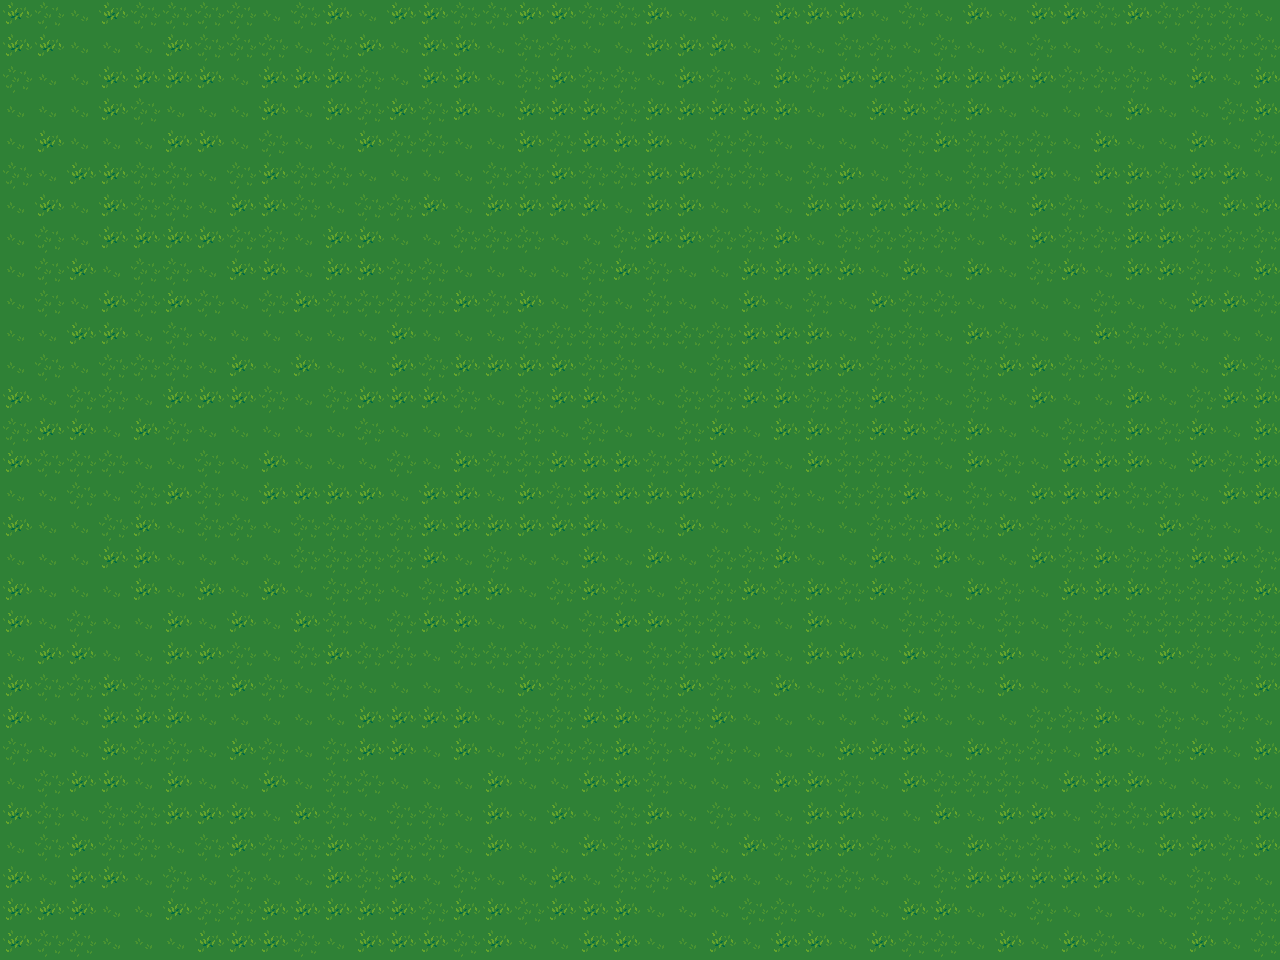
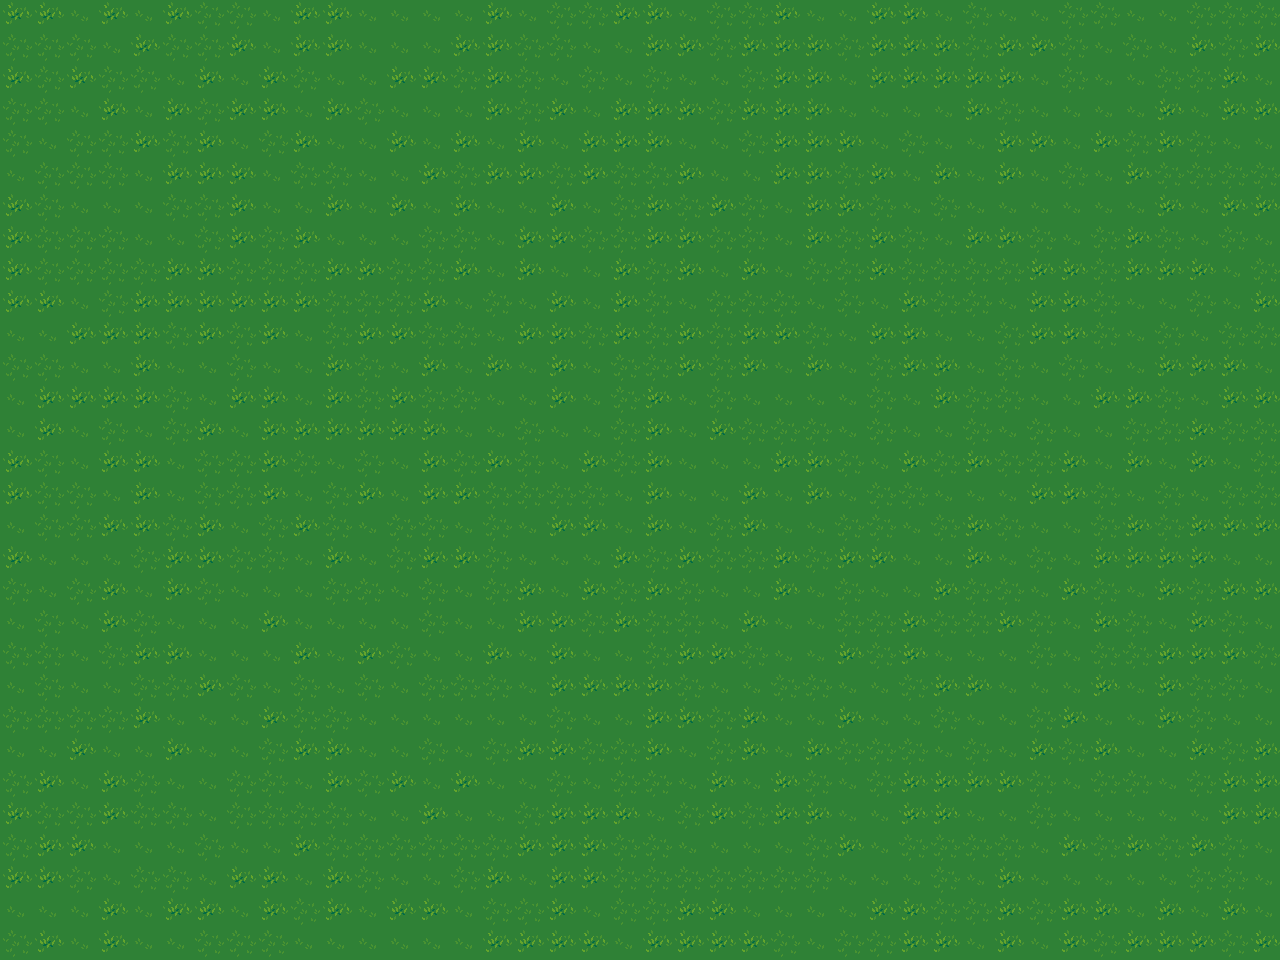
dog animation

diff --git a/src/de/sepab/sheep/display/GameBoard.java b/src/de/sepab/sheep/display/GameBoard.java
@@ -30,16 +30,21 @@ public class GameBoard extends JPanel{
 	private static final String OBSTACLE = "/de/sepab/sheep/model/gfx/fence.png";
 	private static final String FLOOR = "/de/sepab/sheep/model/gfx/grass.png";
 	private static final String POWERUP = "/de/sepab/sheep/model/gfx/wolf.png";
+	private static final String SINGLEPLAYERMAP1 = ""; //<--
 
 	private static final BufferedImage IMAGESHEEP = optimize(load(SHEEP));
 	private static final BufferedImage IMAGEDOGE = optimize(load(DOGE));
 	private static final BufferedImage IMAGEOBSTACLE = optimize(load(OBSTACLE));
 	private static final BufferedImage IMAGEFLOOR = optimize(load(FLOOR));
 	private static final BufferedImage IMAGEPOWERUP = optimize(load(POWERUP));
+	private BufferedImage IMAGEMAP;
 	private BufferedImage imageBackground;
 	    
 	private static final int COORDSSHEEP[][] = {{16,16}};
-	private static final int COORDSDOGE[][] = {{0,16}};
+	private static final int COORDSDOGE[][] = {{0,8}, {32,8}, {64, 8}, {96,8},
+											   {0,96}, {32,96}, {64, 96}, {96,96},
+											   {0,136}, {32,136}, {64, 136}, {96,136},
+											   {0,224}, {32,224}, {64, 224}, {96,224},};
 	private static final int COORDSOBSTACLE[][] = {{0,0},{32,0},{64,0},
 	    										  {0,32},{32,32},{64,32},
 	    										  {0,64},{32,64},{64,64},
@@ -54,7 +59,7 @@ public class GameBoard extends JPanel{
 	
 	private int textureLength = 32; //tl = texture length
 	private int x = 40, y=30;
-	private int background[][][] = new int[x][y][2];
+//	private int background[][][] = new int[x][y][2];
 	
 	
     public void paintComponent(Graphics gr) {
@@ -93,7 +98,7 @@ public class GameBoard extends JPanel{
     	for (int x = 0; x < this.x; x++) {
 			for (int y = 0; y < this.y; y++) {
 				int i = randomGenerator.getRandomNumber(0, 2);//2 ist die anzahl an floor texturen
-				g.drawImage(IMAGEFLOOR.getSubimage(COORDSFLOOR[i][0], COORDSFLOOR[i][1], textureLength, textureLength), x*32, x*32, null);
+				g.drawImage(IMAGEFLOOR.getSubimage(COORDSFLOOR[i][0], COORDSFLOOR[i][1], textureLength, textureLength), x*32, y*32, null);
 			}
 		}
     		ImageIO.write(imageBackground, "png", new File("./Hintergrund.png"));
@@ -102,6 +107,27 @@ public class GameBoard extends JPanel{
 		}
     }
     
+    public void loadMap(int map) {
+    	switch (map) {
+		case 1:
+			IMAGEMAP = optimize(load(SINGLEPLAYERMAP1));
+			break;
+
+		default:
+			IMAGEMAP = optimize(load(SINGLEPLAYERMAP1));
+			break;
+		}
+    	for (int x = 0; x < this.x; x++) {
+			for (int y = 0; y < this.y; y++) {
+				 int rgb = IMAGEMAP.getRGB(y, x);
+				 Color c = new Color(rgb);
+				 if (c.getBlue() == 0 && c.getRed() == 0 && c.getGreen() == 0) {
+					
+				}
+	               
+			}
+		}
+    }
     
     
 //    private void paintBackground(Graphics2D g) {

diff --git a/src/de/sepab/sheep/entities/Dog.java b/src/de/sepab/sheep/entities/Dog.java
@@ -2,12 +2,77 @@ package de.sepab.sheep.entities;
 
 public class Dog extends Entity {
 
-    public Dog(int posX, int posY, int spritePos) {
-        super(posX, posY, spritePos);
+    public Dog(int posX, int posY) {
+        super(posX, posY);
         this.setSpeed(1.0f);
     }
 
     public void bark() {
     	
+    }
+    
+    public void changeSprite(int rotation){
+    	switch (rotation) {
+		case 0:
+			break;
+		case 1:
+			if (spriteCount >= 0 && spriteCount < 4) {
+				this.setSpritePos(4);
+			}
+			if (spriteCount >= 4 && spriteCount < 8) {
+				this.setSpritePos(5);
+			}
+			if (spriteCount >= 8 && spriteCount < 12) {
+				this.setSpritePos(6);
+			}
+			if (spriteCount >= 12 && spriteCount < 16) {
+				this.setSpritePos(7);
+			}
+			break;
+		case 2:
+			if (spriteCount >= 0 && spriteCount < 4) {
+				this.setSpritePos(8);
+			}
+			if (spriteCount >= 4 && spriteCount < 8) {
+				this.setSpritePos(9);
+			}
+			if (spriteCount >= 8 && spriteCount < 12) {
+				this.setSpritePos(10);
+			}
+			if (spriteCount >= 12 && spriteCount < 16) {
+				this.setSpritePos(11);
+			}
+			break;
+		case 3:
+			if (spriteCount >= 0 && spriteCount < 4) {
+				this.setSpritePos(12);
+			}
+			if (spriteCount >= 4 && spriteCount < 8) {
+				this.setSpritePos(13);
+			}
+			if (spriteCount >= 8 && spriteCount < 12) {
+				this.setSpritePos(14);
+			}
+			if (spriteCount >= 12 && spriteCount < 16) {
+				this.setSpritePos(15);
+			}
+			break;
+		case 4:
+			if (spriteCount >= 0 && spriteCount < 4) {
+				this.setSpritePos(0);
+			}
+			if (spriteCount >= 4 && spriteCount < 8) {
+				this.setSpritePos(1);
+			}
+			if (spriteCount >= 8 && spriteCount < 12) {
+				this.setSpritePos(2);
+			}
+			if (spriteCount >= 12 && spriteCount < 16) {
+				this.setSpritePos(3);
+			}
+			break;
+		default:
+			break;
+		}
     }
 }

diff --git a/src/de/sepab/sheep/handler/EntitySpawner.java b/src/de/sepab/sheep/handler/EntitySpawner.java
@@ -5,19 +5,25 @@ import de.sepab.sheep.handler.Constants;
 
 public class EntitySpawner implements IEntitySpawner{
 
-    public IEntity spawn(String entityName, int posX, int posY, int spritePos) {
-        if (entityName == Constants.DOG) {
-            return new Dog(posX, posY, spritePos);
-        } else if (entityName == Constants.SHEEP) {
-            return new Sheep(posX, posY, spritePos);
-        } else if (entityName == Constants.POWER_UP) {
-            return new PowerUp(posX, posY, spritePos);
-        } else if (entityName == Constants.OBSTACLE) {
-            return new Obstacle(posX, posY, spritePos);
-        } else if (entityName == Constants.CAGE) {
-            return new Cage(posX, posY, spritePos);
-        } else {
-            return null;
-        }
-    }
+	@Override
+	public IEntity spawn(String name, int x, int y, int sprite) {
+		// TODO Auto-generated method stub
+		return null;
+	}
+
+//    public IEntity spawn(String entityName, int posX, int posY, int spritePos) {
+//        if (entityName == Constants.DOG) {
+//            return new Dog(posX, posY, spritePos);
+//        } else if (entityName == Constants.SHEEP) {
+//            return new Sheep(posX, posY, spritePos);
+//        } else if (entityName == Constants.POWER_UP) {
+//            return new PowerUp(posX, posY, spritePos);
+//        } else if (entityName == Constants.OBSTACLE) {
+//            return new Obstacle(posX, posY, spritePos);
+//        } else if (entityName == Constants.CAGE) {
+//            return new Cage(posX, posY, spritePos);
+//        } else {
+//            return null;
+//        }
+//    }
 }

diff --git a/src/de/sepab/sheep/logic/Level.java b/src/de/sepab/sheep/logic/Level.java
@@ -66,24 +66,24 @@ public class Level implements ILevel, ActionListener{
 		timer.stop();
 	}
 
-	public void addDog(int x, int y, int sprite) {
-		dogList.add(new Dog(x, y, sprite));
+	public void addDog(int x, int y) {
+		dogList.add(new Dog(x, y));
 	}
 	
-	public void addSheep(int x, int y, int sprite){
-		sheepList.add(new Sheep(x, y, sprite));
+	public void addSheep(int x, int y){
+		sheepList.add(new Sheep(x, y));
 	}
 	
-	public void addPowerUp(int x, int y, int sprite) {
-		powerUpList.add(new PowerUp(x, y, sprite));
+	public void addPowerUp(int x, int y) {
+		powerUpList.add(new PowerUp(x, y));
 	}
 	
-	public void addObstacle(int x, int y, int sprite) {
-		obstacleList.add(new Obstacle(x, y, sprite));
+	public void addObstacle(int x, int y) {
+		obstacleList.add(new Obstacle(x, y));
 	}
 	
-	public void addCage(int x, int y, int sprite) {
-		cageList.add(new Cage(x, y, sprite));
+	public void addCage(int x, int y) {
+		cageList.add(new Cage(x, y));
 	}
 	
 	public void getGameBaord(GameBoard gameBoard){
@@ -96,11 +96,11 @@ public class Level implements ILevel, ActionListener{
 //		System.out.print(timer.getTime() + "");
 		switch (gameModus) {
 		case ONTIME:
-			if ((timer.getTime() + time) <= 0) {
-				swingTimer.stop();
-				timer.stop();
-				System.out.print("ende");
-			}
+//			if ((timer.getTime() + time) <= 0) {
+//				swingTimer.stop();
+//				timer.stop();
+//				System.out.print("ende");
+//			}
 			break;
 		case ONCOUNT:
 			break;

diff --git a/src/de/sepab/sheep/entities/Entity.java b/src/de/sepab/sheep/entities/Entity.java
@@ -3,13 +3,28 @@ package de.sepab.sheep.entities;
 public class Entity implements IEntity {
 	private int posX;
 	private int posY;
-	private int spritePos;
 	private float speed;
+	
+	protected int spritePos;
+	protected int spriteCount = 0;
+	protected int rotation = 1;
 
-	public Entity(int posX, int posY, int spritePos) {
+	public int getRotation() {
+		return rotation;
+	}
+
+	public void setRotation(int rotation) {
+		this.rotation = rotation;
+		spriteCount++;
+		if (spriteCount >= 16) {
+			spriteCount = 0;
+		}
+		changeSprite(rotation);
+	}
+	
+	public Entity(int posX, int posY) {
 		this.posX = posX;
 		this.posY = posY;
-		this.spritePos = spritePos;
 	}
 
 	public int getPosX() {
@@ -42,5 +57,8 @@ public class Entity implements IEntity {
 
 	public void setSpeed(float speed) {
 		this.speed = speed;
+	}
+	
+	public void changeSprite(int rotation) {
 	}
 }	

diff --git a/src/de/sepab/sheep/logic/Movement.java b/src/de/sepab/sheep/logic/Movement.java
@@ -20,18 +20,22 @@ private ICollision collision;
 					{}
 					break;
 				case(1):
+					entity.setRotation(direction);
 					if(collision.isoccupied(entity.getPosX(),entity.getPosY()-4))
 					{entity.setPosY(entity.getPosY()-4);}
 					break;
 				case(2):
+					entity.setRotation(direction);
 					if(collision.isoccupied(entity.getPosX()+4,entity.getPosY()))
 					{entity.setPosX(entity.getPosX()+4);}
 					break;
 				case(3):
+					entity.setRotation(direction);
 					if(collision.isoccupied(entity.getPosX(),entity.getPosY()+4))
 					{entity.setPosY(entity.getPosY()+4);}
 					break;
 				case(4):
+					entity.setRotation(direction);
 					if(collision.isoccupied(entity.getPosX()-4,entity.getPosY()))
 					{entity.setPosX(entity.getPosX()-4);}
 					break;

diff --git a/src/de/sepab/sheep/logic/ILevel.java b/src/de/sepab/sheep/logic/ILevel.java
@@ -27,15 +27,15 @@ public interface ILevel {
 
 	
 
-	public void addDog(int x, int y, int sprite);
+	public void addDog(int x, int y);
 	
-	public void addSheep(int x, int y, int sprite);
+	public void addSheep(int x, int y);
 	
-	public void addPowerUp(int x, int y, int sprite);
+	public void addPowerUp(int x, int y);
 	
-	public void addObstacle(int x, int y, int sprite);
+	public void addObstacle(int x, int y);
 	
-	public void addCage(int x, int y, int sprite);
+	public void addCage(int x, int y);
 	
 	public void getReferences(AI ai, GameBoard gameBoard, ITimer timer,IInput input);
 	

diff --git a/src/de/sepab/sheep/entities/Sheep.java b/src/de/sepab/sheep/entities/Sheep.java
@@ -5,8 +5,8 @@ public class Sheep extends Entity implements ISheep {
 	private int[] thoughts = new int[5];
 	private boolean scared = false;
 
-	public Sheep (int posX, int posY, int spritePos) {
-		super(posX, posY, spritePos);
+	public Sheep (int posX, int posY) {
+		super(posX, posY);
 		this.setSpeed(1.0f);
 	}
 

diff --git a/src/de/sepab/sheep/main/Main.java b/src/de/sepab/sheep/main/Main.java
@@ -32,8 +32,8 @@ public class Main {
 		IDataLoader dataLoader = new DataLoader();
 		dataLoader.loadHighscore();
 		ILevel level = new Level();
-		level.addDog(32, 32, 0);
-		level.addSheep(128, 32, 0);
+		level.addDog(32, 32);
+		level.addSheep(128, 32);
 		ITimer timer = new Timer();
 		timer.stop();
 

diff --git a/src/de/sepab/sheep/entities/Obstacle.java b/src/de/sepab/sheep/entities/Obstacle.java
@@ -1,8 +1,8 @@
 package de.sepab.sheep.entities;
 
 public class Obstacle extends Entity{
-    public Obstacle(int posX, int posY, int spritePos) {
-        super(posX, posY, spritePos);
+    public Obstacle(int posX, int posY) {
+        super(posX, posY);
     }
 
 }

diff --git a/src/de/sepab/sheep/entities/Cage.java b/src/de/sepab/sheep/entities/Cage.java
@@ -1,8 +1,8 @@
 package de.sepab.sheep.entities;
 
 public class Cage  extends Entity{
-	public Cage(int posX, int posY, int spritePos) {
-		super(posX, posY, spritePos);
+	public Cage(int posX, int posY) {
+		super(posX, posY);
 	}
 
 	public int countSheep(){

diff --git a/src/de/sepab/sheep/entities/PowerUp.java b/src/de/sepab/sheep/entities/PowerUp.java
@@ -1,7 +1,7 @@
 package de.sepab.sheep.entities;
 
 public class PowerUp extends Entity{
-	public PowerUp(int posX, int posY, int spritePos) {
-		super(posX, posY, spritePos);
+	public PowerUp(int posX, int posY) {
+		super(posX, posY);
 	}
 }
